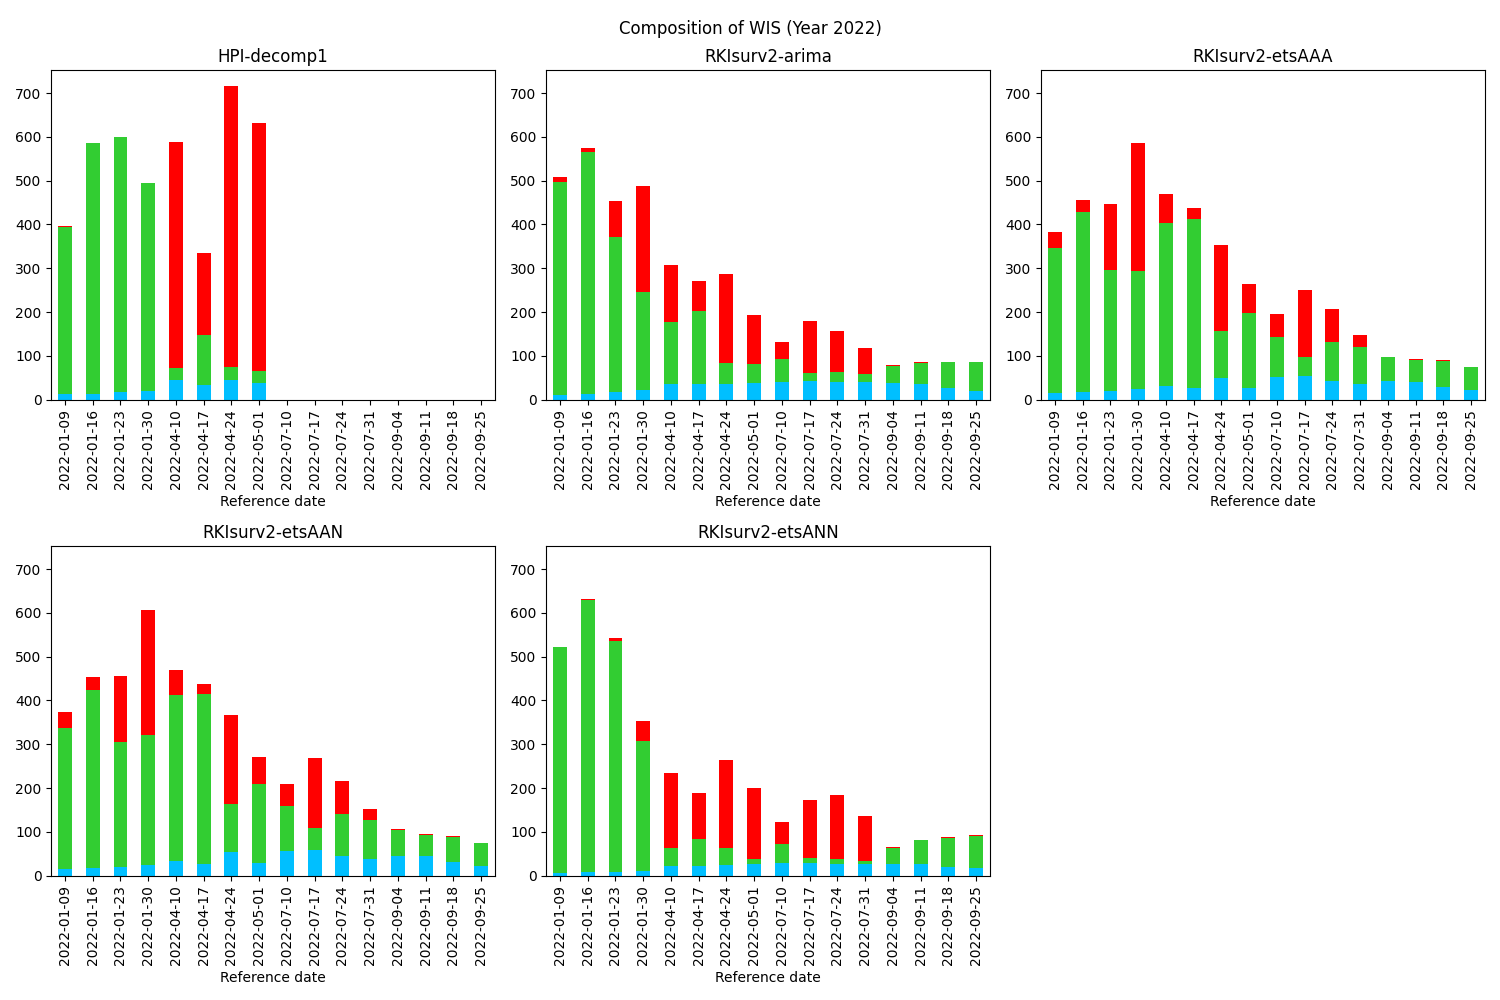
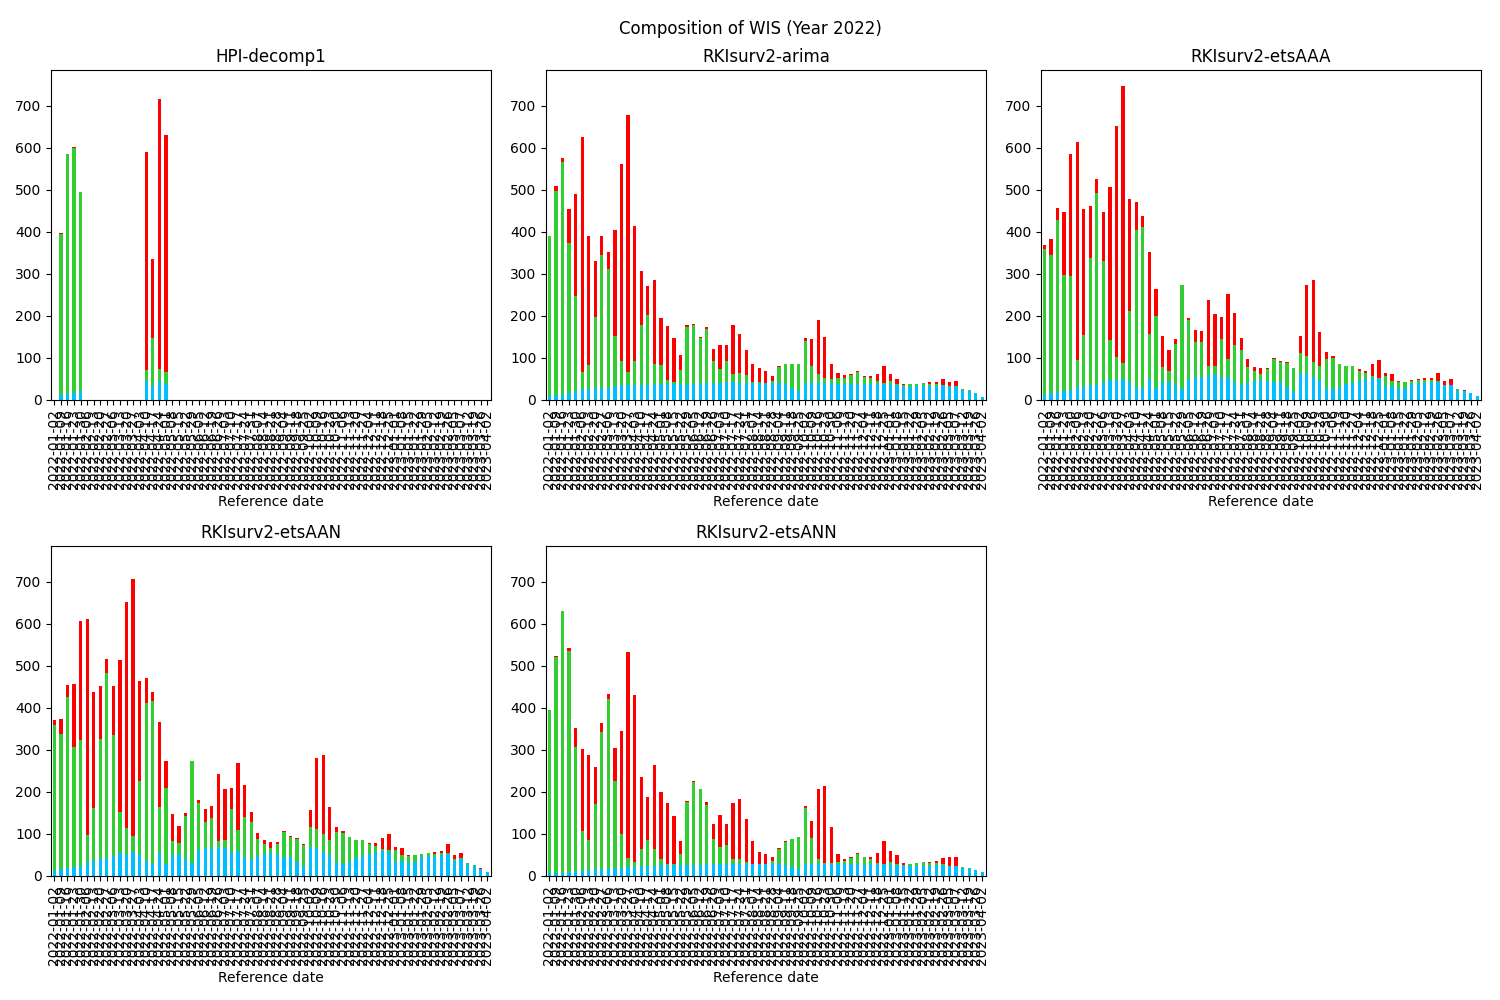
update evaluation report

diff --git a/index.html b/index.html
@@ -14911,38 +14911,38 @@ body {font-family: Arial;}
     <tr>
       <th>4</th>
       <td>RKIsurv2-arima</td>
-      <td>251.48 (153.49 - 349.48)</td>
-      <td>243.78 (156.48 - 331.09)</td>
-      <td>267.82 (169.35 - 366.29)</td>
-      <td>311.4 (178.9 - 443.9)</td>
-      <td>252.88 (144.04 - 361.72)</td>
+      <td>183.11 (136.73 - 229.49)</td>
+      <td>180.14 (138.75 - 221.53)</td>
+      <td>180.5 (137.62 - 223.39)</td>
+      <td>217.78 (157.37 - 278.19)</td>
+      <td>179.38 (127.88 - 230.88)</td>
     </tr>
     <tr>
       <th>5</th>
       <td>RKIsurv2-etsAAA</td>
-      <td>271.56 (186.32 - 356.79)</td>
-      <td>290.34 (198.1 - 382.58)</td>
-      <td>291.82 (205.21 - 378.44)</td>
-      <td>321.59 (225.76 - 417.42)</td>
-      <td>256.49 (163.97 - 349.01)</td>
+      <td>209.65 (160.27 - 259.03)</td>
+      <td>217.23 (169.82 - 264.63)</td>
+      <td>207.54 (162.33 - 252.75)</td>
+      <td>242.6 (180.01 - 305.19)</td>
+      <td>201.08 (146.29 - 255.87)</td>
     </tr>
     <tr>
       <th>6</th>
       <td>RKIsurv2-etsAAN</td>
-      <td>275.17 (190.38 - 359.96)</td>
-      <td>298.84 (205.52 - 392.16)</td>
-      <td>295.33 (209.56 - 381.1)</td>
-      <td>324.26 (228.57 - 419.94)</td>
-      <td>256.65 (169.13 - 344.18)</td>
+      <td>212.4 (163.62 - 261.18)</td>
+      <td>220.14 (174.09 - 266.19)</td>
+      <td>209.65 (164.96 - 254.34)</td>
+      <td>246.19 (183.35 - 309.02)</td>
+      <td>203.92 (149.97 - 257.87)</td>
     </tr>
     <tr>
       <th>7</th>
       <td>RKIsurv2-etsANN</td>
-      <td>252.37 (148.03 - 356.72)</td>
-      <td>226.33 (136.31 - 316.36)</td>
-      <td>269.04 (164.38 - 373.69)</td>
-      <td>333.58 (185.85 - 481.31)</td>
-      <td>252.03 (135.65 - 368.41)</td>
+      <td>170.14 (128.08 - 212.2)</td>
+      <td>161.96 (125.85 - 198.06)</td>
+      <td>168.26 (129.83 - 206.68)</td>
+      <td>205.13 (149.34 - 260.92)</td>
+      <td>168.17 (119.13 - 217.21)</td>
     </tr>
   </tbody>
 </table>
@@ -14977,7 +14977,7 @@ body {font-family: Arial;}
 <div class="jp-OutputArea-child">
 
 <div class="jp-RenderedHTMLCommon jp-RenderedHTML jp-OutputArea-output " data-mime-type="text/html">
-<div class="tabgroup"><div class="tab"><button class="tablinks active" onclick="openTab(event)">RKIsurv2-etsAAA</button><button class="tablinks" onclick="openTab(event)">HHI-ConnstantSpreadTest</button><button class="tablinks" onclick="openTab(event)">HHI-seq2seq4096d21</button><button class="tablinks" onclick="openTab(event)">RKIsurv2-etsAAN</button><button class="tablinks" onclick="openTab(event)">HHI-seq2seq4096d14</button><button class="tablinks" onclick="openTab(event)">HHI-seq2seq4096d28</button><button class="tablinks" onclick="openTab(event)">RKIsurv2-etsANN</button><button class="tablinks" onclick="openTab(event)">HPI-baseMpnnLstm</button><button class="tablinks" onclick="openTab(event)">HPI-decomp1</button></div><div id="RKIsurv2-etsAAA" class="tabcontent" style="display:block;"><img src="./figures/baseline_RKIsurv2-etsAAA.png" alt="weighted interval score comparison RKIsurv2-etsAAA" /></div><div id="HHI-ConnstantSpreadTest" class="tabcontent"><img src="./figures/baseline_HHI-ConnstantSpreadTest.png" alt="weighted interval score comparison HHI-ConnstantSpreadTest" /></div><div id="HHI-seq2seq4096d21" class="tabcontent"><img src="./figures/baseline_HHI-seq2seq4096d21.png" alt="weighted interval score comparison HHI-seq2seq4096d21" /></div><div id="RKIsurv2-etsAAN" class="tabcontent"><img src="./figures/baseline_RKIsurv2-etsAAN.png" alt="weighted interval score comparison RKIsurv2-etsAAN" /></div><div id="HHI-seq2seq4096d14" class="tabcontent"><img src="./figures/baseline_HHI-seq2seq4096d14.png" alt="weighted interval score comparison HHI-seq2seq4096d14" /></div><div id="HHI-seq2seq4096d28" class="tabcontent"><img src="./figures/baseline_HHI-seq2seq4096d28.png" alt="weighted interval score comparison HHI-seq2seq4096d28" /></div><div id="RKIsurv2-etsANN" class="tabcontent"><img src="./figures/baseline_RKIsurv2-etsANN.png" alt="weighted interval score comparison RKIsurv2-etsANN" /></div><div id="HPI-baseMpnnLstm" class="tabcontent"><img src="./figures/baseline_HPI-baseMpnnLstm.png" alt="weighted interval score comparison HPI-baseMpnnLstm" /></div><div id="HPI-decomp1" class="tabcontent"><img src="./figures/baseline_HPI-decomp1.png" alt="weighted interval score comparison HPI-decomp1" /></div></div>
+<div class="tabgroup"><div class="tab"><button class="tablinks active" onclick="openTab(event)">HHI-ConnstantSpreadTest</button><button class="tablinks" onclick="openTab(event)">RKIsurv2-etsAAN</button><button class="tablinks" onclick="openTab(event)">RKIsurv2-etsAAA</button><button class="tablinks" onclick="openTab(event)">HPI-decomp1</button><button class="tablinks" onclick="openTab(event)">HHI-seq2seq4096d14</button><button class="tablinks" onclick="openTab(event)">RKIsurv2-etsANN</button><button class="tablinks" onclick="openTab(event)">HHI-seq2seq4096d28</button><button class="tablinks" onclick="openTab(event)">HHI-seq2seq4096d21</button><button class="tablinks" onclick="openTab(event)">HPI-baseMpnnLstm</button></div><div id="HHI-ConnstantSpreadTest" class="tabcontent" style="display:block;"><img src="./figures/baseline_HHI-ConnstantSpreadTest.png" alt="weighted interval score comparison HHI-ConnstantSpreadTest" /></div><div id="RKIsurv2-etsAAN" class="tabcontent"><img src="./figures/baseline_RKIsurv2-etsAAN.png" alt="weighted interval score comparison RKIsurv2-etsAAN" /></div><div id="RKIsurv2-etsAAA" class="tabcontent"><img src="./figures/baseline_RKIsurv2-etsAAA.png" alt="weighted interval score comparison RKIsurv2-etsAAA" /></div><div id="HPI-decomp1" class="tabcontent"><img src="./figures/baseline_HPI-decomp1.png" alt="weighted interval score comparison HPI-decomp1" /></div><div id="HHI-seq2seq4096d14" class="tabcontent"><img src="./figures/baseline_HHI-seq2seq4096d14.png" alt="weighted interval score comparison HHI-seq2seq4096d14" /></div><div id="RKIsurv2-etsANN" class="tabcontent"><img src="./figures/baseline_RKIsurv2-etsANN.png" alt="weighted interval score comparison RKIsurv2-etsANN" /></div><div id="HHI-seq2seq4096d28" class="tabcontent"><img src="./figures/baseline_HHI-seq2seq4096d28.png" alt="weighted interval score comparison HHI-seq2seq4096d28" /></div><div id="HHI-seq2seq4096d21" class="tabcontent"><img src="./figures/baseline_HHI-seq2seq4096d21.png" alt="weighted interval score comparison HHI-seq2seq4096d21" /></div><div id="HPI-baseMpnnLstm" class="tabcontent"><img src="./figures/baseline_HPI-baseMpnnLstm.png" alt="weighted interval score comparison HPI-baseMpnnLstm" /></div></div>
 </div>
 
 </div>
@@ -15070,11 +15070,11 @@ body {font-family: Arial;}
     <tr>
       <th>0</th>
       <td>RKIsurv2-arima</td>
-      <td>31</td>
+      <td>82</td>
       <td>1.000000</td>
       <td>1.000000</td>
-      <td>0.452169</td>
-      <td>0.756077</td>
+      <td>0.526441</td>
+      <td>0.792351</td>
     </tr>
     <tr>
       <th>1</th>
@@ -15133,29 +15133,29 @@ body {font-family: Arial;}
     <tr>
       <th>7</th>
       <td>RKIsurv2-etsAAA</td>
-      <td>31</td>
-      <td>1.082272</td>
-      <td>1.067369</td>
-      <td>0.457513</td>
-      <td>0.749516</td>
+      <td>82</td>
+      <td>1.211725</td>
+      <td>1.197018</td>
+      <td>0.529800</td>
+      <td>0.791850</td>
     </tr>
     <tr>
       <th>8</th>
       <td>RKIsurv2-etsAAN</td>
-      <td>31</td>
-      <td>1.122335</td>
-      <td>1.130036</td>
-      <td>0.467174</td>
-      <td>0.752777</td>
+      <td>82</td>
+      <td>1.281578</td>
+      <td>1.304146</td>
+      <td>0.544309</td>
+      <td>0.798303</td>
     </tr>
     <tr>
       <th>9</th>
       <td>RKIsurv2-etsANN</td>
-      <td>31</td>
-      <td>0.952145</td>
-      <td>0.863889</td>
-      <td>0.410985</td>
-      <td>0.687796</td>
+      <td>82</td>
+      <td>0.916242</td>
+      <td>0.813001</td>
+      <td>0.465937</td>
+      <td>0.720402</td>
     </tr>
   </tbody>
 </table>
